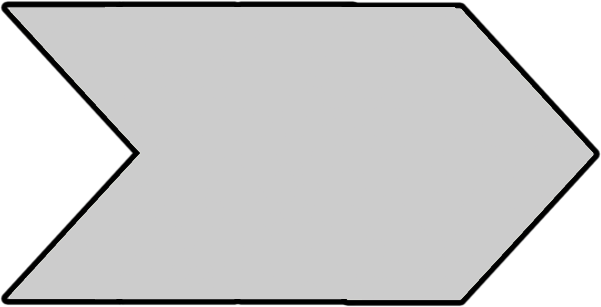
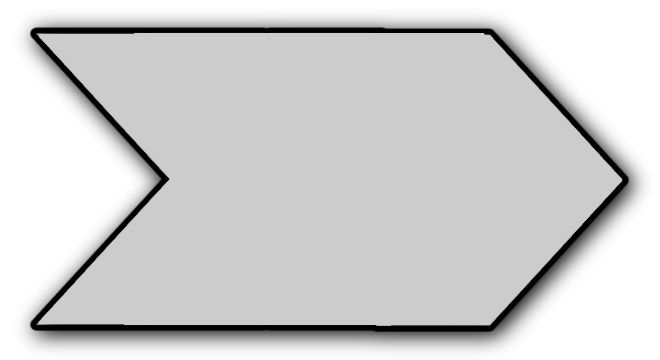
workout page design touchups

Changed region(s): [[0.0, 0.0, 1.0, 0.9967]]

diff --git a/workout_generator/templates/underscore_templates/main_page.html b/workout_generator/templates/underscore_templates/main_page.html
@@ -668,7 +668,7 @@ Don't have an account?  <a href="#!signup">Sign Up</a>!
 </script>
 
 <script type="text/html" id="meta-view">
-<blockquote class="no-quote" style="width: 80%; padding: 10px 30px; margin-top: 10px;">
+<blockquote class="baller-shadow no-quote" style="width: 80%; padding: 10px 30px; margin-top: 10px;">
 <h3 style="margin-top: 15px; line-height: 20px;"><%= currentGoal %></h3>
 </blockquote>
 <p>Weeks in Phase:
@@ -685,6 +685,7 @@ Don't have an account?  <a href="#!signup">Sign Up</a>!
     <% if(phaseNames[i] === currentPhase) {%>
         selected
     <% } %>
+    baller-shadow
     ">
         <center>
             <p>
@@ -708,8 +709,8 @@ Don't have an account?  <a href="#!signup">Sign Up</a>!
 </script>
 
 <script type="text/html" id="workout-component-view">
-<div style="padding-bottom: 10px; margin-left: 30px;">
-<div class="workout-component-block top-rounded">
+<div style="margin-bottom: 10px; margin-left: 30px; background-color: #777;" class="top-rounded bottom-rounded baller-shadow">
+<div class="workout-component-block top-rounded ">
 <%= workout_component.title %>
 <% if(rest){ %>
     <% if(rest > 60){ %>
@@ -724,41 +725,43 @@ Don't have an account?  <a href="#!signup">Sign Up</a>!
     <div class="exercise-row
 <% if(i === exercises.length-1){ %>
 bottom-rounded
+bottom-bordered
 <% } %>
+
 ">
     <% var exerciseSet = exercises[i]; %>
-    <div class="sets-reps">
+    <div class="sets-reps tight-shadow">
     <%= exerciseSet.sets %> x
 <% if(!exerciseSet.exercise.timed) { %>
 <%= exerciseSet.reps %>
 <% } %>
 
     </div>
-<div id="exercise_<%= exerciseSet.exercise.id %>" class="exercise-block">
+<div id="exercise_<%= exerciseSet.exercise.id %>" class="exercise-block tight-shadow">
     <%= exerciseSet.exercise.name %>
     </div>
     <% if(exerciseSet.superset){ %>
         superset with
 
 <% if(!exerciseSet.superset.exercise.timed) { %>
-<div class="sets-reps">
+<div class="sets-reps tight-shadow">
     <%= exerciseSet.superset.reps %>
 </div>
 <% } %>
 
-<div class="exercise-block" id="exercise_<%= exerciseSet.superset.exercise.id %>">
+<div class="exercise-block tight-shadow" id="exercise_<%= exerciseSet.superset.exercise.id %>">
 <%= exerciseSet.superset.exercise.name %>
 </div>
     <% } %>
     </div>
 
-<video class="exercise-video" id="video_exercise_<%= exerciseSet.exercise.id %>" muted autoplay="" loop="" poster="true" width="480" height="360" style="max-width: 100%; display: none;">
+<video class="exercise-video" id="video_exercise_<%= exerciseSet.exercise.id %>" muted autoplay="" loop="" poster="true" width="480" height="360" style="display: none;">
     <source src="https://s3-us-west-1.amazonaws.com/workout-generator-exercises/smaller_mp4/small_<%= exerciseSet.exercise.video_id  %>.mp4" type="video/mp4" class="mp4source">
     <source src="https://s3-us-west-1.amazonaws.com/workout-generator-exercises/smaller_webm/small_<%= exerciseSet.exercise.video_id  %>.webmsd.webm" type="video/webm" class="webmsource">
 </video>
 
 <% if(exerciseSet.superset) {%>
-<video class="exercise-video" id="video_exercise_<%= exerciseSet.superset.exercise.id %>" muted autoplay="" loop="" poster="true" width="480" height="360" style="max-width: 100%; display: none;">
+<video class="exercise-video" id="video_exercise_<%= exerciseSet.superset.exercise.id %>" muted autoplay="" loop="" poster="true" width="480" height="360" style="display: none;">
     <source src="https://s3-us-west-1.amazonaws.com/workout-generator-exercises/smaller_mp4/small_<%= exerciseSet.superset.exercise.video_id  %>.mp4" type="video/mp4" class="mp4source">
     <source src="https://s3-us-west-1.amazonaws.com/workout-generator-exercises/smaller_webm/small_<%= exerciseSet.superset.exercise.video_id  %>.webmsd.webm" type="video/webm" class="webmsource">
 </video>
@@ -776,10 +779,10 @@ bottom-rounded
     <div class="cardio-meta-container">
         <% var zoneKey = "zone" + zone; %>
         <% if(zoneMeta[zoneKey]) { %>
-            <div class="cardio-meta-block <%= zoneKey %>" style="min-height: 20px; width: 10%;">
+            <div class="cardio-meta-block <%= zoneKey %> baller-shadow" style="min-height: 20px; width: 10%;">
             <p style="margin-bottom: 0;">Zone <%= zone %></p>
             </div>
-<p class="cardio-meta-descriptor" style="margin-bottom: 0;">
+<p class="cardio-meta-descriptor baller-shadow" style="margin-bottom: 0;">
     <% if(zoneMeta[zoneKey].minutes > 0) { %>
         <%= zoneMeta[zoneKey].minutes %> minute
     <% } %>
@@ -800,7 +803,7 @@ interval<br/>
     <% var cardioBlock = cardioBlocks[i]; %>
     <% var maxHeight = 100.0; %>
     <% var blockHeight = (cardioBlock.heightPercent / 100.0) * maxHeight; %>
-<div class="cardio-graph-block <%= cardioBlock.zoneClass %>" style="width: <%= cardioBlock.widthPercent %>%; height: <%= blockHeight %>px; margin-top: <%= maxHeight - blockHeight %>px;">
+<div class="cardio-graph-block <%= cardioBlock.zoneClass %> baller-shadow" style="width: <%= cardioBlock.widthPercent %>%; height: <%= blockHeight %>px; margin-top: <%= maxHeight - blockHeight %>px;">
     </div>
 <% } %>
 </div>

diff --git a/workout_generator/static/css/stylesheets/screen.css b/workout_generator/static/css/stylesheets/screen.css
@@ -2600,6 +2600,10 @@ or wrap each row of columns in a <div class="row"> */
 .datepicker.datepicker-inline{
     font-family: Helvetica,Arial,sans-serif;
     border: 1px solid #ccc;
+    box-shadow: 5px 5px 6px #aaaaaa;
+    -webkit-box-shadow: 5px 5px 6px #aaaaaa;
+    -moz-box-shadow: 5px 5px 6px #aaaaaa;
+    margin: auto;
 }
 
 .phase-block {
@@ -2640,7 +2644,7 @@ or wrap each row of columns in a <div class="row"> */
     -ms-border-radius: 5px;
     -o-border-radius: 5px;
     border-radius: 5px;
-    border: 1px solid #ccc;
+    border: 1px solid #999;
 }
 
 .zone1{
@@ -2657,6 +2661,7 @@ or wrap each row of columns in a <div class="row"> */
 
 .cardio-meta-container {
     overflow: hidden;
+    padding: 8px;
 }
 
 .cardio-meta-descriptor {
@@ -2667,6 +2672,7 @@ or wrap each row of columns in a <div class="row"> */
     -o-border-radius: 5px;
     border-radius: 5px;
     margin-top: 5px;
+    margin-left: 5px;
     position: relative;
     float: left;
     padding: 0 10px;
@@ -2685,7 +2691,9 @@ or wrap each row of columns in a <div class="row"> */
     outline: none;
     margin: 0;
     border-bottom: 1px solid #dddddd;
+    border-right: 1px solid #999;
     font-family: "Helvetica Neue", Helvetica, Arial, sans-serif;
+    box-shadow: 2px 2px 3px #aaaaaa;
 }
 
 .top-rounded{
@@ -2706,6 +2714,25 @@ or wrap each row of columns in a <div class="row"> */
     border-bottom-right-radius: 5px;
 }
 
+.bottom-bordered {
+    border-bottom: 1px solid #999;
+}
+
+.baller-shadow{
+    box-shadow: 5px 5px 6px #aaaaaa;
+    -webkit-box-shadow: 5px 5px 6px #aaaaaa;
+    -moz-box-shadow: 5px 5px 6px #aaaaaa;
+    /*
+    box-shadow: none|h-shadow v-shadow blur spread color
+    */
+}
+
+.tight-shadow{
+    box-shadow: 2px 3px 3px #777;
+    -webkit-box-shadow: 2px 3px 3px #777;
+    -moz-box-shadow: 2px 3px 3px #777;
+}
+
 .exercise-row{
     color: black;
     font-weight: 400;
@@ -2718,6 +2745,7 @@ or wrap each row of columns in a <div class="row"> */
 }
 
 .sets-reps {
+    margin: 2px;
     display: inline-block;
     background: #222;
     color: #8fba3b;
@@ -2730,6 +2758,7 @@ or wrap each row of columns in a <div class="row"> */
 }
 
 .exercise-block{
+    margin: 2px;
     display: inline-block;
     background-color: #8fba3b;
     padding: 5px;
@@ -2739,4 +2768,17 @@ or wrap each row of columns in a <div class="row"> */
     -o-border-radius: 5px;
     border-radius: 5px;
     cursor: pointer;
+}
+
+.exercise-video {
+    margin: 10px auto;
+    box-shadow: 5px 5px 6px #222;
+    -webkit-box-shadow: 5px 5px 6px #222;
+    -moz-box-shadow: 5px 5px 6px #222;
+    max-width: 90%;
+    display: block;
+}
+
+#workout-placeholder {
+    padding: 0 10px;
 }
